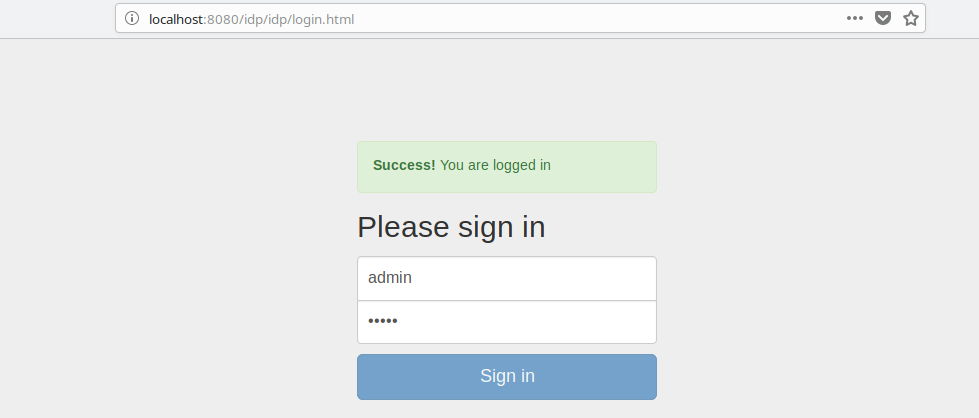
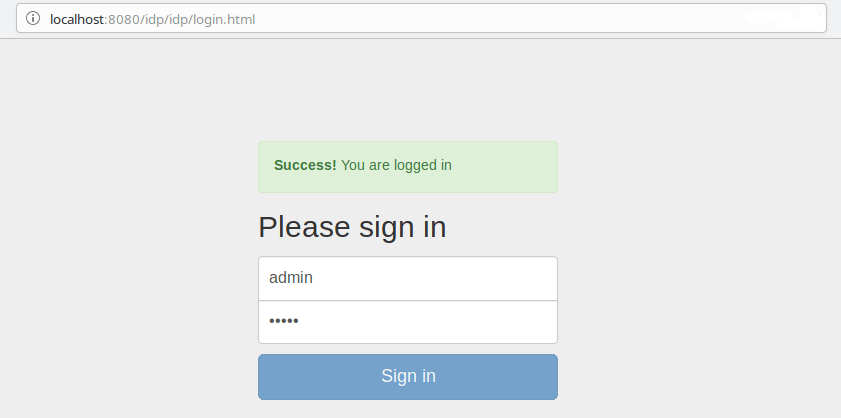
Update README, add links to Wiki, compress screenshot

diff --git a/README.md b/README.md
@@ -2,10 +2,38 @@
 
 ## Overview
 
-The add-on allows to log-in into multiple running applications by entering login and password 
-once in a browser session.
+Single-sign-on (SSO) for CUBA applications allows a user to log in to the multiple 
+running applications by entering a single login name and password once 
+in a browser session.
 
 ![IDP Login Form](./img/idp_login_form.png)
+
+When using SSO, there are two types of applications:
+
+- **Identity Provider (IDP)** is an application that provides user authentication. 
+It contains a login form for entering user credentials and checks the credentials 
+against the list of registered users. Only one Identity Provider is allowed in 
+an SSO environment.
+
+- **Service Provider (SP)** is a regular application that redirects to IDP for 
+user authentication. SP should contain the same list of users as IDP 
+(passwords do not matter though). SP provides authorization using CUBA 
+security roles and access groups. There may be any number of Service Providers in 
+an SSO environment.
+
+An application can be an Identity Provider and a Service Provider at the same time,
+so you don’t have to setup a dedicated IDP.
+
+> CUBA SSO uses custom HTTP-based protocol and currently does not provide 
+integration with systems using standard authentication protocols like SAML or OIDC.
+
+In SSO environment, when a user enters a Service Provider URL, the SP redirects 
+to the IDP page for entering login name and password. After successful 
+authentication, IDP redirects back to the SP application and the user 
+transparently logs in to SP.
+
+Read addon Wiki for an additional information: [link](https://github.com/cuba-platform/idp-addon/wiki).
+
 
 ## Compatibility with platform versions
 
@@ -15,60 +43,75 @@ once in a browser session.
 
 ## Installation and configuration
 
-1. Add custom application component to your project (change the version part if needed):
+1. Add **idp-addon** as an application component to your projects 
+(change the version part if needed):
 
-    `com.haulmont.addon.idp:idp-global:0.1.0`
+> `com.haulmont.addon.idp:idp-global:0.1.0`
 
-2. Configure add-on with application properties ([documentation](https://doc.cuba-platform.com/manual-7.0/sso.html))
+2. Configure add-on with application properties 
+([Wiki](https://github.com/cuba-platform/idp-addon/wiki#identity-provider-sso-setup))
 
 ## Demo
 
-This section is a short version of example from documentation ([link](https://doc.cuba-platform.com/manual-7.0/sso_example.html)).
+This section is a short version of example from
+[Wiki](https://github.com/cuba-platform/idp-addon/wiki/Single-Sign-On-Example).
 
-1. Create two projects named "fish" and "chips".
-2. Add the `idp` with the following coordinates:
+We consider an example of setting up SSO for two applications: 
+Fish and Chips. Fish will be an Identity Provider and Service Provider 
+at the same time, Chips will be a Service Provider.
 
-    `com.haulmont.addon.idp:idp-global:0.1.0`
+1. Add the **idp-addon** via Studio with the following coordinates:
 
-3. Configure aliases in the `hosts` file:
+> `com.haulmont.addon.idp:idp-global:0.1.0`
+
+2. Configure aliases in the `hosts` file:
 
 | Address       | Alias         |
 |:------------- |:------------- |
 | 127.0.0.1     | fish          |
 | 127.0.0.1     | chips         |
 
-4. Configure IDP for the Fish project in `web-app.properties` file of the `web` module:
+3. Configure IDP for the Fish project in `web-app.properties` file of the `web` 
+module:
 
 ```
+cuba.webAppUrl = http://fish:8081/app/
+
 cuba.idp.serviceProviderUrls = http://fish:8081/app/,http://chips:8082/app/
 cuba.idp.serviceProviderLogoutUrls = http://fish:8081/app/dispatch/idpc/logout,http://chips:8082/app/dispatch/idpc/logout
 cuba.idp.trustedServicePassword = mdgh12SSX_pic2
 
-cuba.webAppUrl = http://fish:8081/app/
 cuba.web.idp.enabled = true
 cuba.web.idp.baseUrl = http://fish:8081/app/idp/
 cuba.web.idp.trustedServicePassword = mdgh12SSX_pic2
 ```
 
-5. Configure IDP for the "Chips" project in `web-app.properties` file of the `web` module:
+4. Configure IDP for the "Chips" project in `web-app.properties` file of the `web` 
+module:
 
 ```
 cuba.webAppUrl = http://chips:8082/app/
+
 cuba.web.idp.enabled = true
 cuba.web.idp.baseUrl = http://fish:8081/app/idp/
 cuba.web.idp.trustedServicePassword = mdgh12SSX_pic2
 ```
 
-6. Start the Fish server by launching its `tomcat/bin/startup.*` script or via Gradle: `gradlew start`.
+5. Start the Fish server by launching its `tomcat/bin/startup.*` script or
+via Gradle: `gradlew start`.
 
-7. Go to [http://fish:8081/app/](http://fish:8081/app/) in your web browser. You will be redirected to the IDP login page. 
-Log in with the `admin / admin` credentials. Create a new user, for example `u1`.
+6. Go to [http://fish:8081/app/](http://fish:8081/app/) in your web browser. 
+You will be redirected to the IDP login page. Log in with the `admin / admin` 
+credentials. Create a new user, for example `u1`.
 
-8. Start the Chips server by launching its `tomcat/bin/startup.*` script.
+7. Start the Chips server by launching its `tomcat/bin/startup.*` script or
+via Gradle: `gradlew start`.
 
-9. Go to [http://chips:8082/app/](http://chips:8082/app/) in the same web browser. If you are still logged in to the 
-Fish application, you will be automatically logged in as admin to Chips. Create the same u1 user 
-(password does not matter) in the `Chips` application.
+8. Go to [http://chips:8082/app/](http://chips:8082/app/) in the same web browser. 
+If you are still logged in to the Fish application, you will be automatically 
+logged in as admin to Chips. Create the same u1 user (password does not matter) 
+in the `Chips` application.
 
-10. Now you can log in as `admin` or `u1` to both applications via the single login form, and if you are logged in one 
-application, the login process for the second application will be automatic, bypassing the login form.
+Now you can log in as `admin` or `u1` to both applications via the single login form,
+and if you are logged in one application, the login process for the second 
+application will be automatic, bypassing the login form.
